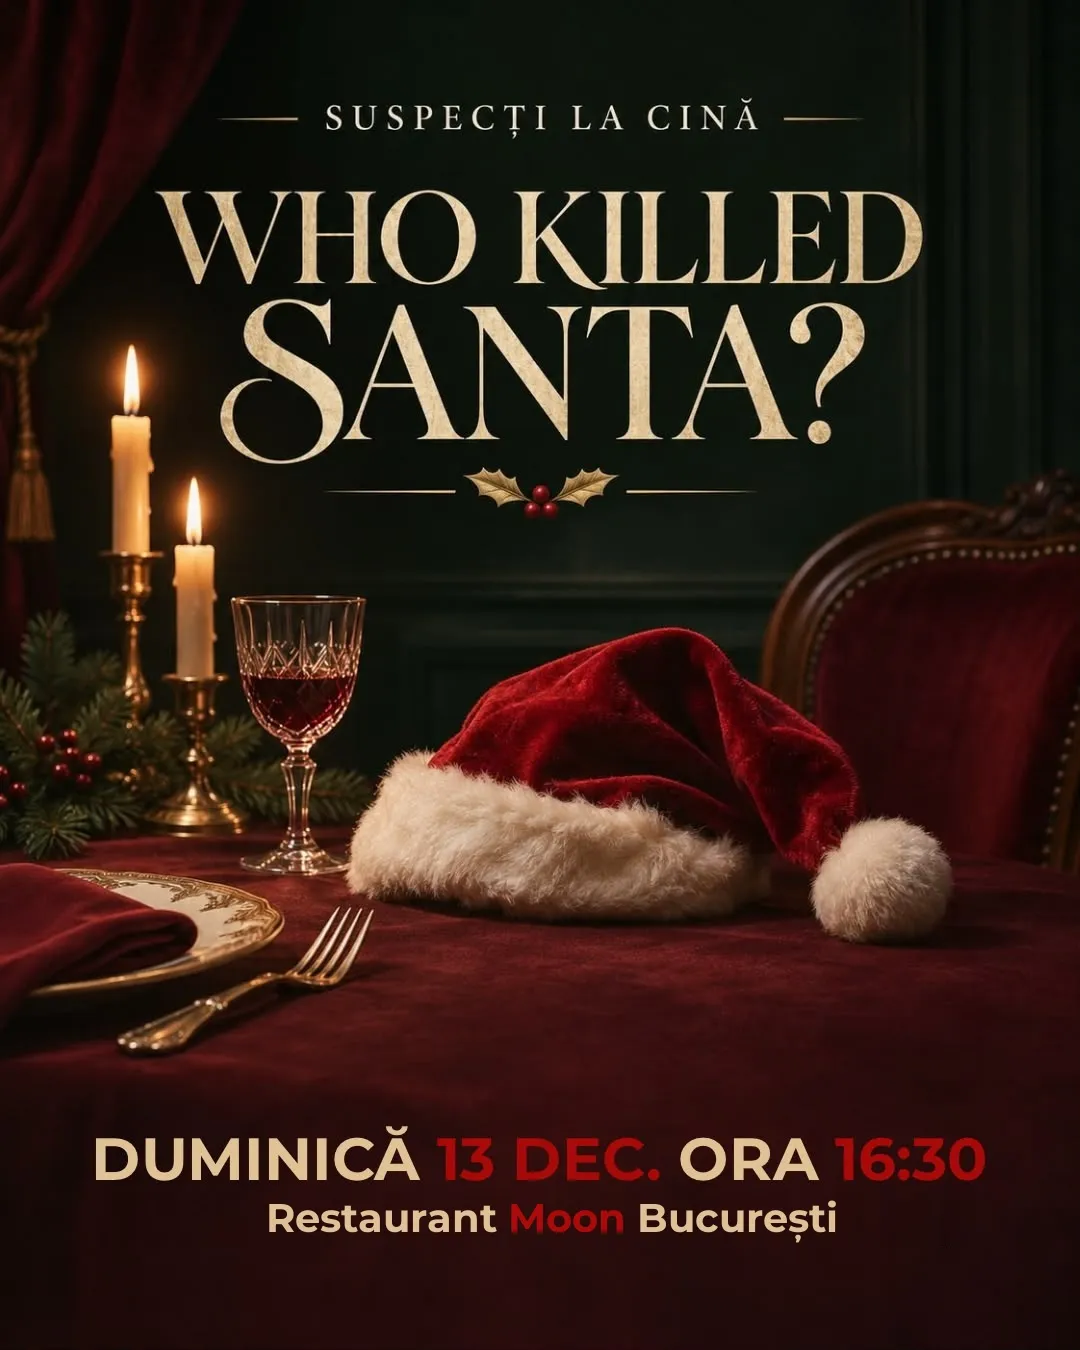
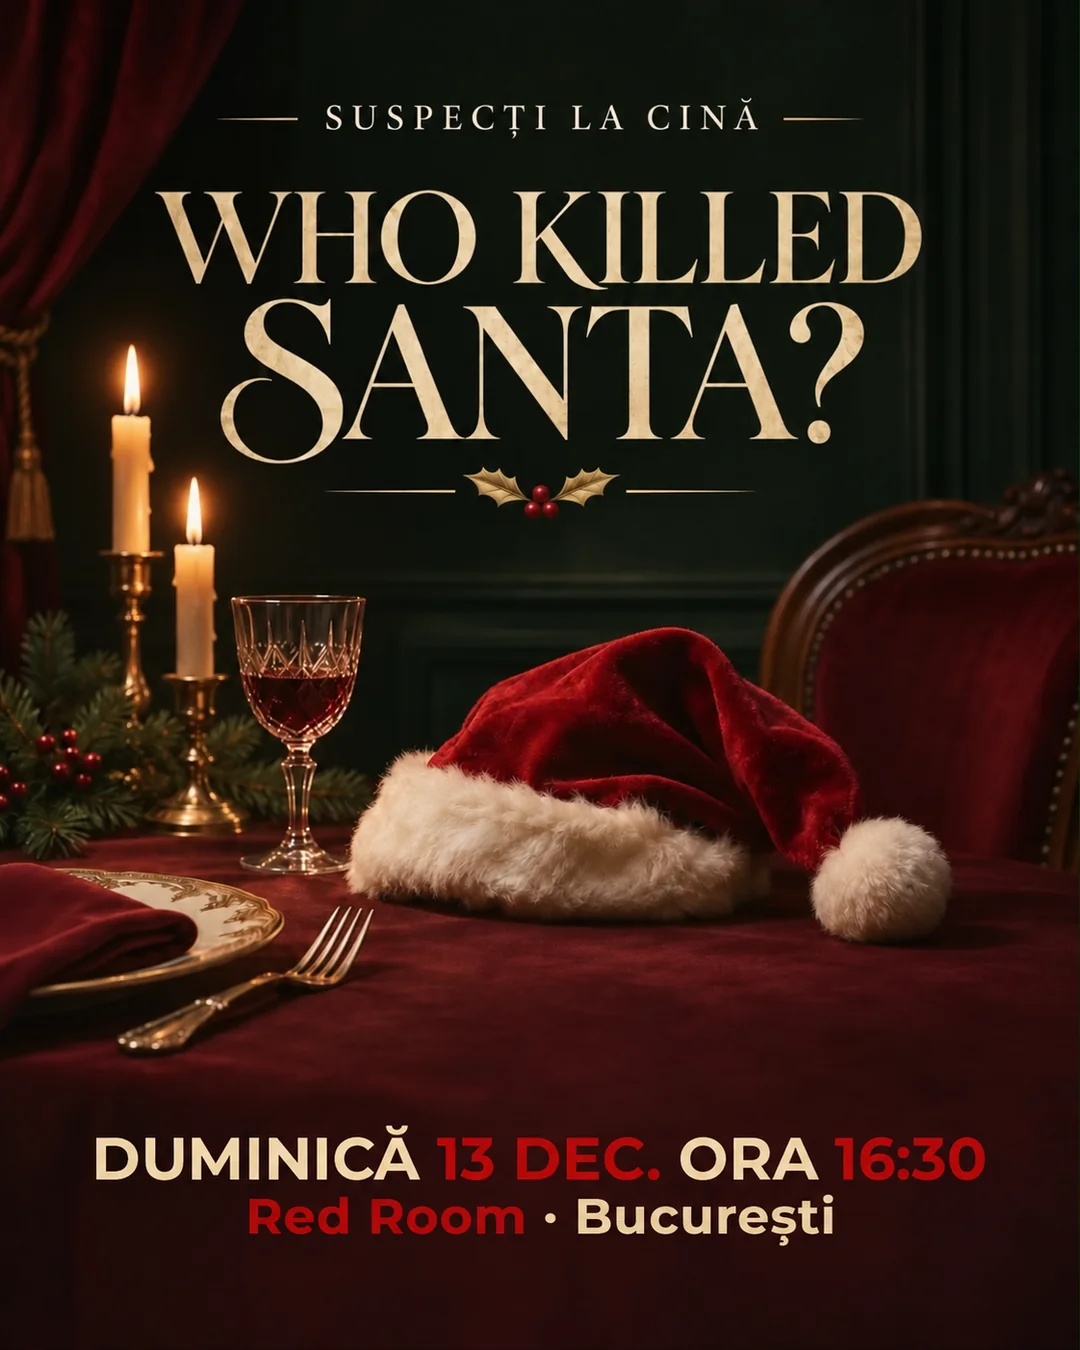
Aliniere cu AmBilet: preturi Godfather (Early Bird pana pe 23.11, Standard Tm 119 lei) si Santa Bucuresti mutat la Red Room by Naive (+ afis nou)

diff --git a/editii-continut.js b/editii-continut.js
@@ -492,8 +492,8 @@ window.SUSPECTI_EDITII = {
       '**Biletele nu sunt rambursabile.** Le poți transfera altei persoane doar dacă ne anunți în scris și primești confirmarea noastră.'
     ],
     preturi: [
-      { label: 'Early Bird', price: '99 lei', perioada: 'până pe 20 noiembrie', until: '2026-11-20' },
-      { label: 'Standard', price: '139 lei', perioada: '21–27 noiembrie', until: '2026-11-27' }
+      { label: 'Early Bird', price: '99 lei', perioada: 'până pe 23 noiembrie', until: '2026-11-23' },
+      { label: 'Standard', price: '119 lei', perioada: '24–27 noiembrie', until: '2026-11-27' }
     ],
     dress: {
       tema: 'The Godfather',
@@ -535,8 +535,8 @@ window.SUSPECTI_EDITII = {
       '**Biletele nu sunt rambursabile.** Le poți transfera altei persoane doar dacă ne anunți în scris și primești confirmarea noastră.'
     ],
     preturi: [
-      { label: 'Early Bird', price: '119 lei', perioada: 'până pe 20 noiembrie', until: '2026-11-20' },
-      { label: 'Standard', price: '139 lei', perioada: '21–28 noiembrie', until: '2026-11-28' }
+      { label: 'Early Bird', price: '119 lei', perioada: 'până pe 23 noiembrie', until: '2026-11-23' },
+      { label: 'Standard', price: '139 lei', perioada: '24–28 noiembrie', until: '2026-11-28' }
     ],
     dress: {
       tema: 'The Godfather',
@@ -602,7 +602,7 @@ window.SUSPECTI_EDITII = {
     final: 'Locurile la petrecerea de la Polul Nord sunt limitate.'
   },
 
-  /* Suspecți la Cină · Who Killed Santa? · București, Moon Brasserie (13 decembrie, 16:30) */
+  /* Suspecți la Cină · Who Killed Santa? · București, Red Room by Naive (13 decembrie, 16:30) – mutat de la Moon pe 23.11.2026 */
   '5348': {
     afisVertical: true,
     scurt: 'Câteva sute de ani la rând, Moș Crăciun n-a întârziat niciodată. Anul ăsta nu mai pleacă nicăieri. Primești un personaj, cu un secret al lui, și afli din conversații, alianțe și indicii cine a stricat Crăciunul.',
@@ -626,7 +626,7 @@ window.SUSPECTI_EDITII = {
       'Atmosfera de Crăciun'
     ],
     conditii: [
-      'Consumația nu este inclusă în bilet și se achită la locație. Moon Brasserie a pregătit un meniu special pentru această seară.',
+      'Consumația nu este inclusă în bilet și se achită la locație. Restaurantul a pregătit un meniu special pentru această seară.',
       'Vârsta minimă: 16 ani.',
       'Poți veni singur, în cuplu sau cu prietenii. Dacă vii cu gașca sau cu partenerul, vă așezăm împreună.',
       '**Biletele nu sunt rambursabile.** Le poți transfera altei persoane doar dacă ne anunți în scris și primești confirmarea noastră.'
@@ -642,7 +642,7 @@ window.SUSPECTI_EDITII = {
       culori: ['#B3121B', '#FFFFFF', '#111111']
     },
     practic: [
-      'Începem la 16:30, la Moon Brasserie, Bd. Unirii 32, sector 3, București.',
+      'Începem la 16:30, la Red Room by Naive, Magazinul București, etajul 5, București.',
       'Vino cu 10–15 minute înainte, ca să ai timp să-ți citești personajul.',
       'Pe parcursul serii facem fotografii. Dacă nu vrei să apari, spune-i gazdei la început.'
     ],

diff --git a/evenimente-editorial.js b/evenimente-editorial.js
@@ -72,8 +72,8 @@ window.SUSPECTI_EDITORIAL = {
     tip: 'Mystery Dinner · Timișoara Edition', durata: 'Aprox. 3 ore, apoi petrecere', theme: '#godfather',
     img: '/images/editii/godfather-timisoara.webp', thumbV: true,
     video: '/videos/v2/cina-peaky.mp4', poster: '/images/v2/cina-peaky-poster.jpg', pos: 'center 25%', venue: 'Paso Local Cuisine',
-    price: '139 lei',
-    tiers: [{ until: '2026-11-20', price: '99 lei', label: 'Early Bird' }]
+    price: '119 lei',
+    tiers: [{ until: '2026-11-23', price: '99 lei', label: 'Early Bird' }]
   },
   '5345': {
     page: '/cina/the-godfather-bucuresti-28-noiembrie', title: 'The Godfather',
@@ -81,13 +81,13 @@ window.SUSPECTI_EDITORIAL = {
     img: '/images/editii/godfather-bucuresti.webp', thumbV: true,
     video: '/videos/v2/cina-peaky.mp4', poster: '/images/v2/cina-peaky-poster.jpg', pos: 'center 20%', venue: 'Moon Brasserie',
     price: '139 lei',
-    tiers: [{ until: '2026-11-20', price: '119 lei', label: 'Early Bird' }]
+    tiers: [{ until: '2026-11-23', price: '119 lei', label: 'Early Bird' }]
   },
   '5348': { // fostul duplicat al lui 5345, transformat în AmBilet în Who Killed Santa? București (11.11.2026)
     page: '/cina/who-killed-santa-bucuresti-13-decembrie', title: 'Who Killed Santa?',
     tip: 'Mystery Dinner de Crăciun · București Edition', durata: 'Aprox. 3 ore', theme: '#craciun',
     img: '/images/editii/santa-bucuresti.webp', thumbV: true,
-    video: '/videos/v2/cina-desfasurare.mp4', poster: '/images/v2/cina-desfasurare-poster.jpg', pos: 'center 35%', venue: 'Moon Brasserie',
+    video: '/videos/v2/cina-desfasurare.mp4', poster: '/images/v2/cina-desfasurare-poster.jpg', pos: 'center 35%', venue: 'Red Room by Naive',
     price: '139 lei',
     tiers: [{ until: '2026-12-01', price: '119 lei', label: 'Early Bird' }]
   },
